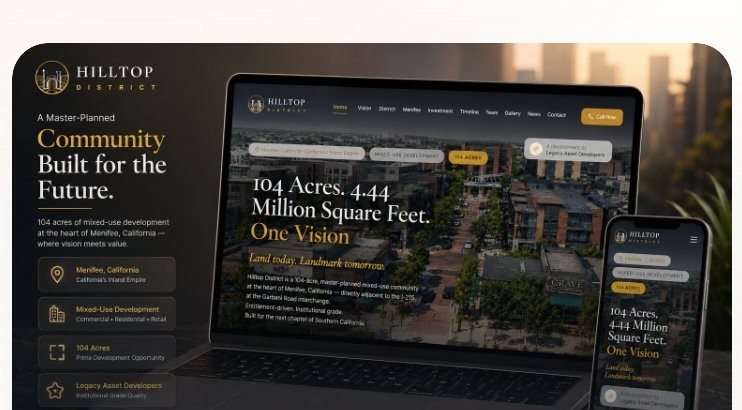
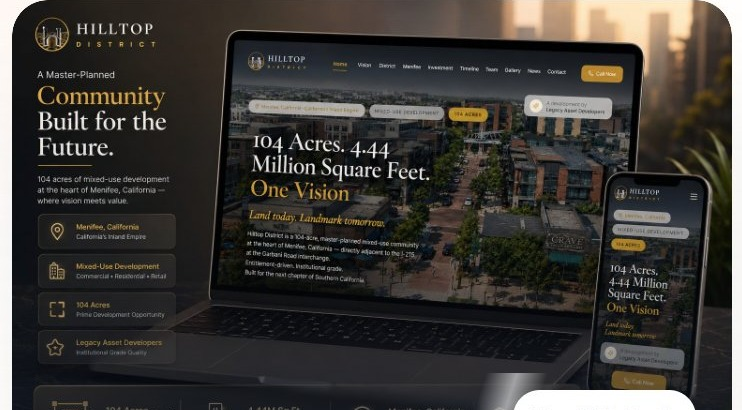
Portfolio: fix Hilltop cinematic white top band

diff --git a/index.html b/index.html
@@ -117,7 +117,7 @@
     <p class="sub" style="text-align:center;max-width:940px;margin-left:auto;margin-right:auto">A collection of websites and digital experiences crafted for growth, performance, and exceptional user experiences.</p>
     <div class="work-grid">
       <a class="pf-cine" href="https://hilltopdistrict.com/" target="_blank" rel="noopener">
-        <picture><source srcset="img/portfolio-hilltop-cinematic.webp" type="image/webp"><img src="img/portfolio-hilltop-cinematic.jpg" width="742" height="410" alt="Hilltop District — AI-powered website by Nona Digi" loading="lazy" decoding="async"></picture>
+        <picture><source srcset="img/portfolio-hilltop-cinematic.webp?v=2" type="image/webp"><img src="img/portfolio-hilltop-cinematic.jpg?v=2" width="742" height="410" alt="Hilltop District — AI-powered website by Nona Digi" loading="lazy" decoding="async"></picture>
         <span class="edge"></span><span class="scrim"></span>
         <span class="row"><span class="t">Hilltop District</span><span class="vpill">View Website ↗</span></span>
       </a>
